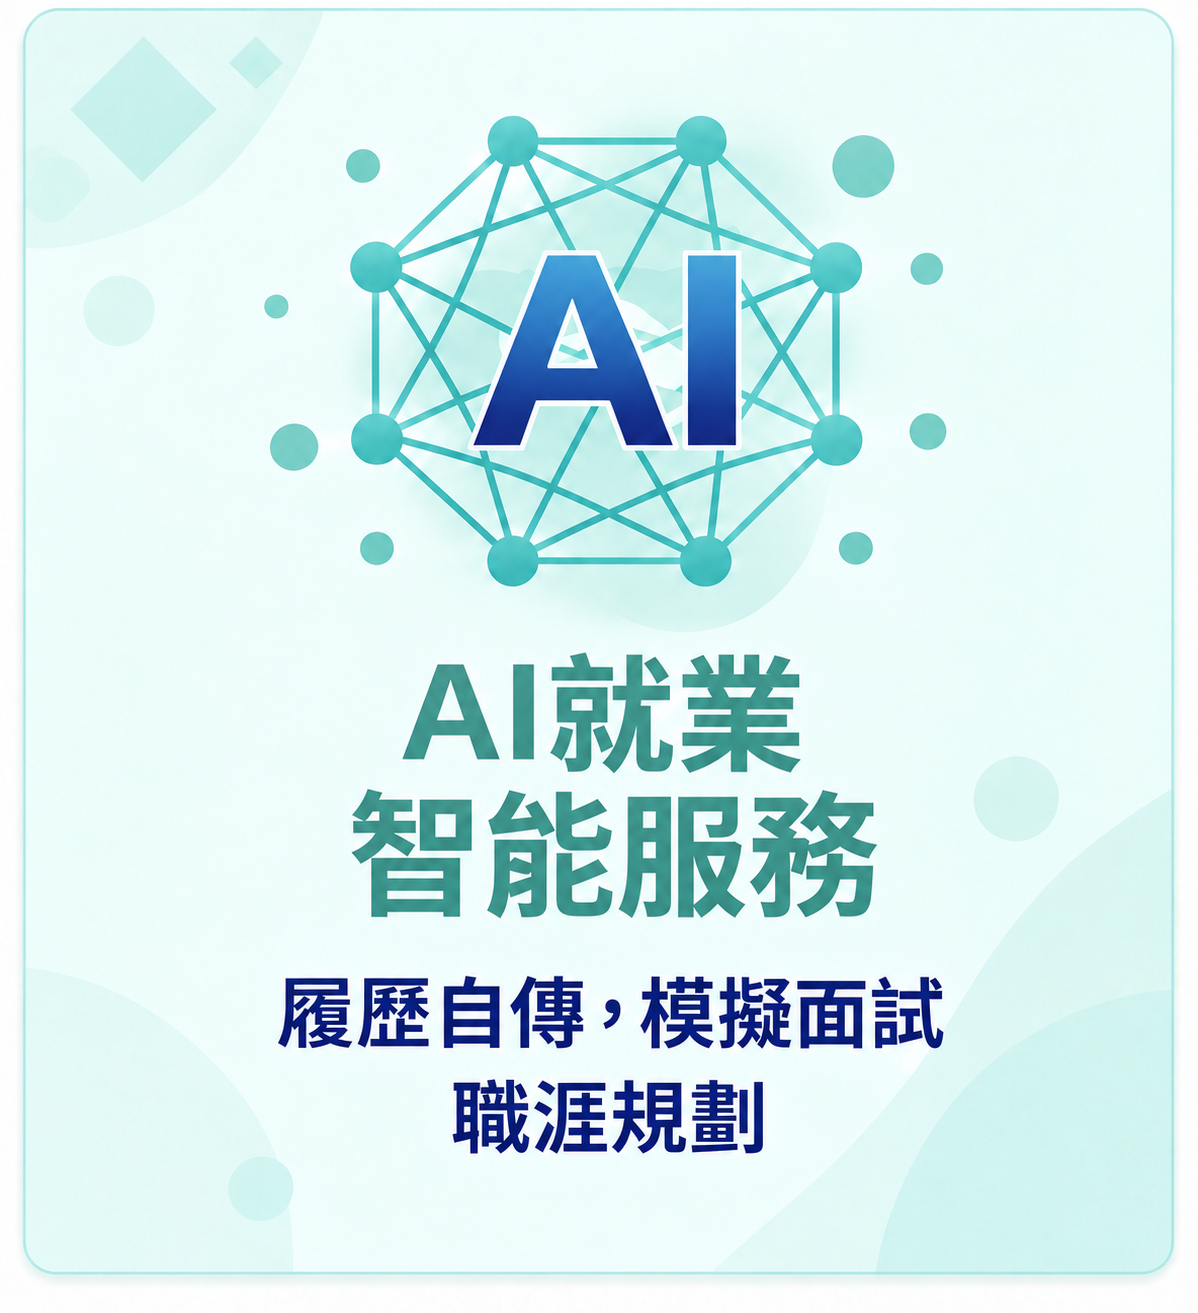
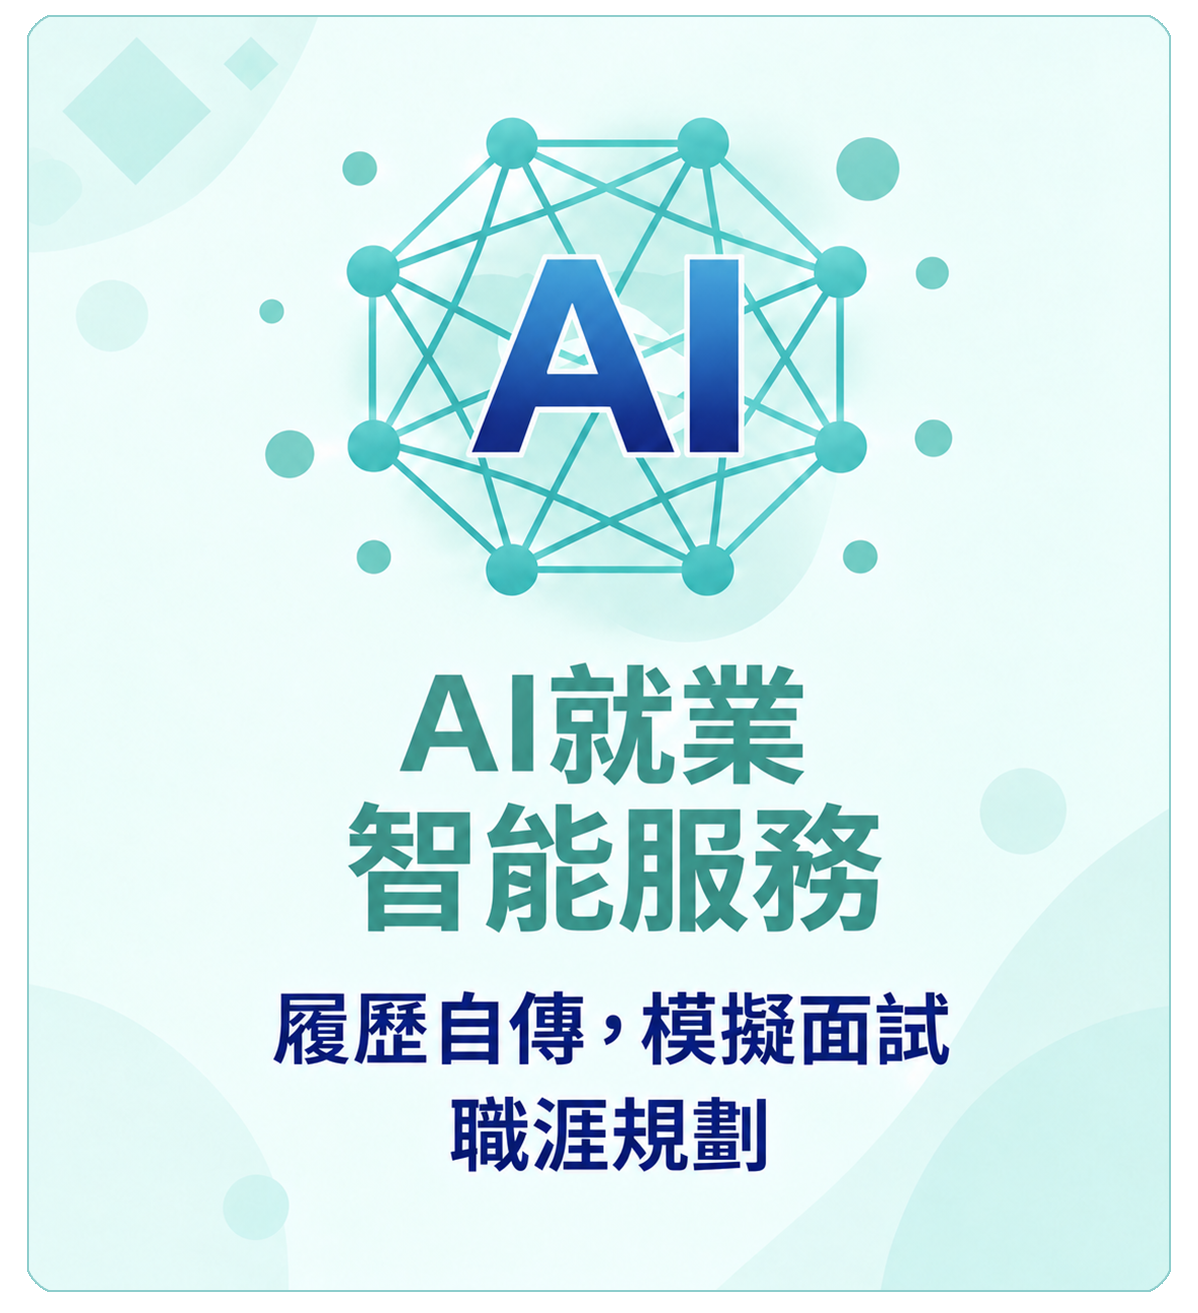
#quick-link： 調整圖片顯示大小／增加滑鼠效果

diff --git a/web-bs3/home-bs3.html b/web-bs3/home-bs3.html
@@ -17,21 +17,21 @@
     <div class="home container " style="background-color: #fff; padding-block: 2em;">
         <!-- 軍民專長轉銜查詢區 -->
         <div id="quick-link">
-                <div class="child-1">
+                <a href="javascript:;" class="child-1">
                     <img src="./img/軍民專長轉銜專區_0_0.png" alt="" class="img-responsive">
-                </div>
-                <div class="child-2">
+                </a>
+                <a href="javascript:;" class="child-2">
                     <img src="./img/AI職涯智能服務海報_0.png" alt="" class="img-responsive">
-                </div>
-                <div class="child-3">
+                </a>
+                <a href="javascript:;" class="child-3">
                     <img src="./img/就業預約服務資訊卡_0_0.png" alt="" class="img-responsive">
-                </div>
-                <div class="child-4">
-                    <div><img src="./img/津貼申請作業服務banner_0_0.png" alt="" class="img-responsive"></div>
-                </div>
-                <div class="child-5">
-                   <div><img src="./img/我的履歷與就業媒合服務_0.png" alt="" class="img-responsive"></div>
-                </div>
+                </a>
+                <a href="javascript:;" class="child-4">
+                    <img src="./img/津貼申請作業服務banner_0_0.png" alt="" class="img-responsive">
+                </a>
+                <a href="javascript:;" class="child-5">
+                  <img src="./img/我的履歷與就業媒合服務_0.png" alt="" class="img-responsive">
+                </a>
         </div>
         <div id="skills-transition">
             <div class="block_title skills-transition">

diff --git a/web-bs3/css/quick-link.css b/web-bs3/css/quick-link.css
@@ -2,9 +2,20 @@
     display: grid;
     grid-template-columns: repeat(4, 1fr);
     gap: 1em;
+    margin-bottom: 16px;
     grid-template-areas:
         "child-1 child-2 child-3 child-4"
         "child-1 child-2 child-3 child-5";
+}
+
+#quick-link a {
+    transition: transform 0.3s ease;
+}
+
+#quick-link a:hover {
+    transform: translateY(-5px);
+    
+
 }
 
 #quick-link .child-1 {
@@ -30,6 +41,7 @@
 #quick-link .child-6 {
     grid-area: child-6;
 }
+
 @media (max-width: 768px) {
     #quick-link {
         grid-template-columns: repeat(1, 1fr);

diff --git a/readme.md b/readme.md
@@ -1,4 +1,5 @@
 ### 2026-10-28
+- 調整圖片顯示大小／增加滑鼠效果
 - 增加#quick-link，符合客戶期望排版
 - 
 ### 2026-06-17
